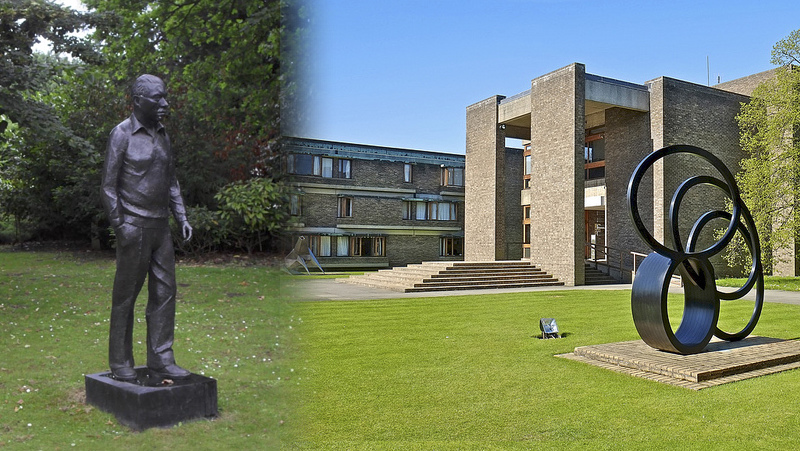
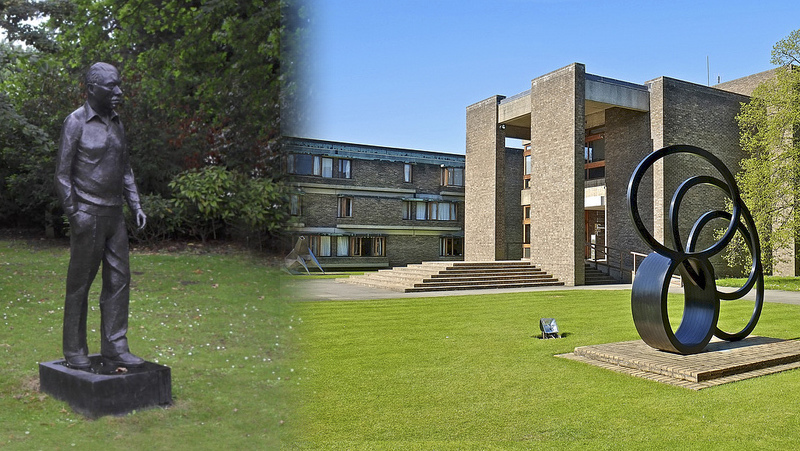
bigger strip and personal pic

Changed region(s): [[0.0, 0.0, 0.3438, 0.9623]]

diff --git a/index.html b/index.html
@@ -30,6 +30,14 @@
 				</div>
 			</section>
 
+			<nav id="nav">
+				<ul>
+					<li><a href="#intro" class="active">Introduction</a></li>
+					<li><a href="#first">First Section</a></li>
+					<li><a href="#second">Second Section</a></li>
+					<li><a href="#cta">Get Started</a></li>
+				</ul>
+			</nav>
 
 
 		<!-- One -->
@@ -40,8 +48,8 @@
 						<header class="major">
 							<h2>Who I am</h2>
 						</header>
-						<p align="justify">An experienced Postdoctoral Researcher at the <a href="http://www.ast.cam.ac.uk/" target="_blank"> <font color="DarkCyan"> Institute of Astronomy</font></a>, University of Cambridge, with a demonstrated history in research. The first person to obtain a Doctor of Philosophy (Ph.D.) in Astronomy and Astrophysics from a Lebanese institution, the <a href="http://www.aub.edu.lb/" target="_blank"> <font color="DarkCyan"> American University of Beirut.</font></a>  Course supervisor and Masters project mentor with a long and broad teaching experience. Recipient of several fellowships, awards and research grants. An enthusiastic team-worker, an excellent communicator and an activist in promoting gender equality and representation by championing supportive policies and practices. Active on various committees for an effective and strategic engagement in postdoc academic and social welfare issues in the <a href="http://www.cam.ac.uk/" target="_blank"> <font color="DarkCyan"> University of Cambridge</font></a>. A professional with a Masters in Physics and a Bacherlors degree in Physics and Mathematics.</p>
-					</div><p align="left"><font color="Silver" size="2" face="futura"> <i>Images: Observatory, IoA (left). AUB (right). <br>Moon &amp Pluto image by Angelique Babson, NRAO</i></font></p>
+						<p align="justify"><img src="images/me.jpg" alt="me" height="30%" width="30%" align=left style="padding-right:20px;">An experienced Postdoctoral Researcher at the <a href="http://www.ast.cam.ac.uk/" target="_blank"> <font color="DarkCyan"> Institute of Astronomy</font></a>, University of Cambridge, with a demonstrated history in research. The first person to obtain a Doctor of Philosophy (Ph.D.) in Astronomy and Astrophysics from a Lebanese institution, the <a href="http://www.aub.edu.lb/" target="_blank"> <font color="DarkCyan"> American University of Beirut.</font></a>  Course supervisor and Masters project mentor with a long and broad teaching experience. Recipient of several fellowships, awards and research grants. An enthusiastic team-worker, an excellent communicator and an activist in promoting gender equality and representation by championing supportive policies and practices. Active on various committees for an effective and strategic engagement in postdoc academic and social welfare issues in the <a href="http://www.cam.ac.uk/" target="_blank"> <font color="DarkCyan"> University of Cambridge</font></a>. A professional with a Masters in Physics and a Bacherlors degree in Physics and Mathematics.</p>
+					</div><p align="left"><font color="Silver" size="2" face="futura"> <i>Images: Observatory, IoA (left). AUB (right). <br>Moon &amp Pluto by Angelique Babson, NRAO (background)</i></font></p>
 					<a href="#two" class="goto-next scrolly">Next</a>
 				</div>
 			</section>
@@ -92,10 +100,8 @@
 						<br>
 <p align="justify"> <b>CNO ABUNDANCES IN RED GIANTS</b><br>
 When stars become red giants, they experience the first envelope mixing event that changes their surface abundances. Since stellar spectra tell us about the chemistry at the surface, we can then compare our model predictions to the observations.
-If we have a good understanding of the mixing process, we gain insight into the stellar interiors and chemistry by studying these abundance changes. Using state-of-the-art input physics, <a href="https://academic.oup.com/mnras/article-lookup/doi/10.1093/mnras/stv1141" target="_blank"> <font color="DarkCyan">we find</font></a> a discrepancy between predicted surface
-oxygen abundances and observations in low mass red giants. The adjacent cartoon figure is a simple depiction of this finding,
-  <span class="image right"><img src="images/O1617.jpg" alt="" /></span>
- where the model predictions are shown as a red line and star symbols are observations. This suggests the need to invoke deeper mixing in the models than the theory predicts (shown as a dashed green line) to reproduce the observed abundance pattern. This is sometimes called extra
+If we have a good understanding of the mixing process, we gain insight into the stellar interiors and chemistry by studying these abundance changes.<span class="image right"><img src="images/O1617.jpg" alt="" /></span> Using state-of-the-art input physics, <a href="https://academic.oup.com/mnras/article-lookup/doi/10.1093/mnras/stv1141" target="_blank"> <font color="DarkCyan">we find</font></a> a discrepancy between predicted surface
+oxygen abundances and observations in low mass red giants. The adjacent cartoon figure is a simple depiction of this finding, where the model predictions are shown as a red line and star symbols are observations. This suggests the need to invoke deeper mixing in the models than the theory predicts (shown as a dashed green line) to reproduce the observed abundance pattern. This is sometimes called extra
 mixing and is parametrised as a diffusive process based on <a href="http://articles.adsabs.harvard.edu/full/1996A%26A...313..497F" target="_blank"> <font color="DarkCyan">2D hydrodynamic simulations</font></a>. However, this raises important questions: how well do we understand mixing? And what physical mechanism drives this
 extra mixing?</p>
 <p align="justify"> <b>TWO-DIMENSIONAL STELLAR EVOLUTION</b><br>
@@ -115,8 +121,8 @@ Being at the frontier of scientific exploration, this project promises a burst o
 existing possibilities for improvement given the advent of computational refinements and the unprecedented
 developments in observational astronomy.</p>
 <p align="justify"> <b>SYNTHESIS OF C-RICH DUST IN NOVAE OUTBURSTS</b><br>
-<a href="https://en.wikipedia.org/wiki/Nova" target="_blank"> <font color="DarkCyan">Classical novae</font></a> are very interesting objects since they are prolific dust producers. Observations of a number of novae
-have unambiguously revealed that their ejecta are rich in carbon. <span class="image right"><img src="images/nova.jpg" alt=""/></span>However, theoretical models of novae
+<span class="image right"><img src="images/nova.jpg" alt=""/></span><a href="https://en.wikipedia.org/wiki/Nova" target="_blank"> <font color="DarkCyan">Classical novae</font></a> are very interesting objects since they are prolific dust producers. Observations of a number of novae
+have unambiguously revealed that their ejecta are rich in carbon. However, theoretical models of novae
 outbursts to date have yielded outflows richer in oxygen than carbon. In a collaboration with <a href="http://www.fen.upc.edu/users/jjose/" target="_blank"> <font color="DarkCyan">Jordi Jos&eacute</font></a> and <a href="https://www.aub.edu.lb/fas/physics/Pages/eid.aspx" target="_blank"> <font color="DarkCyan">Mounib El Eid</font></a>,
 we provided <a href="https://www.aanda.org/articles/aa/abs/2016/09/aa28901-16/aa28901-16.html" target="_blank"> <font color="DarkCyan">state-of-the-art novae models</font></a> which produce carbon-rich ejecta, providing a novel explanation of
 these observations.</p>
@@ -125,7 +131,7 @@ Stars of intermediate mass exhibit a phenomenon called the "blue loop", which ch
 through the <a href="https://en.wikipedia.org/wiki/Instability_strip" target="_blank"> <font color="DarkCyan">Cepheid instability strip</font></a>. Since Cepheids are well-known variable stars that are largely observed
  in the Galaxy, the blue loop presents a powerful phase that can constrain important physical processes. <a href="http://iopscience.iop.org/article/10.1088/0004-637X/761/1/10" target="_blank"> <font color="DarkCyan">We investigated</font></a> the striking
  effect of a revised nuclear reaction rate on the blue loop and showed an impressive
- suppression of the blue loops of intermediate mass stars.<span class="image left"><img src="images/blueloop.png"  alt=""/></span> This is depicted in the adjacent figure which shows the evolutionary tracks of stars of various masses in the HR diagram. Black and blue symbols are observed cepheids. The supression of the blue loop of the 5 and 6M<sub>&#9737</sub> stars undesirably leaves many observed
+ suppression of the blue loops of intermediate mass stars. This is depicted in the adjacent figure which shows the evolutionary tracks of stars of various masses in the HR diagram. <span class="image left"><img src="images/blueloop.png"  alt=""/></span>Black and blue symbols are observed cepheids. The supression of the blue loop of the 5 and 6M<sub>&#9737</sub> stars undesirably leaves many observed
  Cepheids unexplained. Having an experimentally established nuclear reaction rate allows focus to be brought to the
  role of related physical processes that are not yet well-understood, like convection, <a href="http://aip.scitation.org/doi/abs/10.1063/1.4875329" target="_blank"> <font color="DarkCyan">in solving
  this discrepancy</font></a>.</p>
@@ -185,7 +191,7 @@ Mechanics labs at the American University of Beirut and the <a href="http://www.
 									</header>
 									<p align="justify">I have had the pleasure to speak at more than 20 conferences, workshops and seminars. Most were to present my latest research results, some to get a job and others to communicate how fun my research is! Here's a brief selection.</p>
 									<p> <ul>
-											<li><p align="left"><b><a href="http://www.unoosa.org/oosa/en/ourwork/topics/spaceforwomen/2017/expert-meeting.html" target="_blank"> <font color="DimGrey">UN EXPERT MEETING ON SPACE FOR WOMEN, NY</font></a></b> | 2017	<br><b><font size="2" color="DarkRed">Invited talk *COMING UP!*</b></font><br> The Institute of Astronomy commitment towards equality and diversity: policies and measures.</li>
+											<li><p align="left"><b><a href="http://www.unoosa.org/oosa/en/ourwork/topics/spaceforwomen/2017/expert-meeting.html" target="_blank"> <font color="DimGrey">UN EXPERT MEETING ON SPACE FOR WOMEN, NY</font></a></b> | 2017	<br><b><font size="2" color="DarkRed">Invited talk *COMING UP!*</b></font><br> The Institute of Astronomy commitment towards equality and diversity: policies &amp measures.</li>
 											<li><p align="left"><b><a href="https://nam2017.org/" target="_blank"> <font color="DimGrey">NATIONAL ASTRONOMY MEETING, UK</font></a></b> | 2017	<br><b><font size="2" color="DarkRed">Invited talk</b></font><br> Can the Chemical Evolution of the Galaxy Solve the Mystery of Oxygen in Red Giants?<a href="Documents/NAM2017.pdf" target="_blank"> <font color="DarkRed"> <i class="fa fa-file-powerpoint-o"></i></font></a></p></li>
 											<li><p align="left"><b><a href="http://agb-supernovae.weebly.com/" target="_blank"> <font color="DimGrey">AGB-SN MASS TRANSITION, ROME</font></a></b> | 2017 <br>Two-Dimensional Stellar Evolution: 2DStars<a href="Documents/AGB-SAGB_Halabi_Rome_2017.pdf" target="_blank"> <font color="DarkRed"> <i class="fa fa-file-powerpoint-o"></i></font></a></p></li>
 											<li><p align="left"><b><a href="http://www.ast.cam.ac.uk/meetings/2016/binary.stars.cambridge.2016" target="_blank"> <font color="DimGrey">BINARY STARS IN CAMBRIDGE, UK</font></a></b> | 2016 <br>Two-Dimensional Stellar Evolution with 2DStars: Introduction &amp Applications
@@ -343,7 +349,7 @@ Mechanics labs at the American University of Beirut and the <a href="http://www.
 									<!-- Eleven -->
 										<section id="eleven" class="main special">
 											<div class="container">
-												<span class="image fit primary"><img src="images/awar.jpg" alt="" /></span>
+												<span class="image fit primary"><img src="images/award.jpg" alt="" /></span>
 												<div class="content">
 													<header class="major">
 														<h2>Awards &amp research grants</h2>
@@ -737,7 +743,7 @@ print 'It took ' + i + ' iterations to sort the deck.';</code></pre>
 						<li><a href="mailto:ghina.m.halabi [at] gmail.com"  rel="nofollow" onclick="this.href='mailto:'+'ghina.m.halabi'+'@'+'gmail.com'" class="icon alt fa-envelope"><span class="label">Email</span></a></li>
 					</ul>
 					<ul class="copyright">
-						<li>&copy; ghina halabi</li><li>Image credits: Moon&ampPluto by <a href="https://society6.com/adrazte" target="_blank"> Angelique Babson</a>, NRAO. Nova by David A. Hardy. Wolfson College by <a href="https://www.meet-cambridge.com/" target="_blank"> Meet Cambridge</a></li>
+						<li>&copy; ghina halabi</li><li>Image credits: Moon&ampPluto by <a href="https://society6.com/adrazte" target="_blank"> Angelique Babson</a>, NRAO. Nova by &copy; David A. Hardy/<a href="http://www.astroart.org/" target="_blank">www.astroart.org</a>. Wolfson College by <a href="https://www.meet-cambridge.com/" target="_blank"> Meet Cambridge</a></li>
 					</ul>
 				</footer>
 			</section>

diff --git a/assets/css/main.css b/assets/css/main.css
@@ -111,7 +111,7 @@
 		}
 
 		.container {
-			width: 35em;
+			width: 50em;
 		}
 
 	}
@@ -2203,7 +2203,7 @@
 		}
 
 		.image.left, .image.right {
-			max-width: 60%;
+			max-width: 40%;
 		}
 
 			.image.left img, .image.right img {
@@ -2680,6 +2680,129 @@
 			.main .goto-next:hover {
 				background-color: rgba(144, 144, 144, 0.15);
 			}
+
+			/* Nav */
+
+				#nav {
+					-moz-transition: background-color 0.2s ease, border-top-left-radius 0.2s ease, border-top-right-radius 0.2s ease, padding 0.2s ease;
+					-webkit-transition: background-color 0.2s ease, border-top-left-radius 0.2s ease, border-top-right-radius 0.2s ease, padding 0.2s ease;
+					-ms-transition: background-color 0.2s ease, border-top-left-radius 0.2s ease, border-top-right-radius 0.2s ease, padding 0.2s ease;
+					transition: background-color 0.2s ease, border-top-left-radius 0.2s ease, border-top-right-radius 0.2s ease, padding 0.2s ease;
+					background-color: #ffffff;
+					color: #636363;
+					position: absolute;
+					width: 64em;
+					max-width: calc(100% - 4em);
+					padding: 1em;
+					background-color: #f7f7f7;
+					border-top-left-radius: 0.25em;
+					border-top-right-radius: 0.25em;
+					cursor: default;
+					text-align: center;
+				}
+
+					#nav input, #nav select, #nav textarea {
+						color: #636363;
+					}
+
+					#nav a:hover {
+						color: #636363;
+					}
+
+					#nav strong, #nav b {
+						color: #636363;
+					}
+
+					#nav h1, #nav h2, #nav h3, #nav h4, #nav h5, #nav h6 {
+						color: #636363;
+					}
+
+					#nav blockquote {
+						border-left-color: #dddddd;
+					}
+
+					#nav code {
+						background: rgba(222, 222, 222, 0.25);
+						border-color: #dddddd;
+					}
+
+					#nav hr {
+						border-bottom-color: #dddddd;
+					}
+
+					#nav + #main {
+						padding-top: 4.25em;
+					}
+
+					#nav ul {
+						margin: 0;
+						padding: 0;
+						list-style: none;
+					}
+
+						#nav ul li {
+							-moz-transition: margin 0.2s ease;
+							-webkit-transition: margin 0.2s ease;
+							-ms-transition: margin 0.2s ease;
+							transition: margin 0.2s ease;
+							display: inline-block;
+							margin: 0 0.35em;
+							padding: 0;
+							vertical-align: middle;
+						}
+
+							#nav ul li a {
+								-moz-transition: font-size 0.2s ease;
+								-webkit-transition: font-size 0.2s ease;
+								-ms-transition: font-size 0.2s ease;
+								transition: font-size 0.2s ease;
+								display: inline-block;
+								height: 2.25em;
+								line-height: 2.25em;
+								padding: 0 1.25em;
+								border: 0;
+								border-radius: 8px;
+								box-shadow: inset 0 0 0 1px transparent;
+							}
+
+								#nav ul li a:hover {
+									background-color: rgba(222, 222, 222, 0.25);
+								}
+
+								#nav ul li a.active {
+									background-color: #ffffff;
+									box-shadow: none;
+								}
+
+					#nav.alt {
+						position: fixed;
+						top: 0;
+						padding: 0.5em 1em;
+						background-color: rgba(247, 247, 247, 0.95);
+						border-top-left-radius: 0;
+						border-top-right-radius: 0;
+						z-index: 10000;
+					}
+
+						#nav.alt ul li {
+							margin: 0 0.175em;
+						}
+
+							#nav.alt ul li a {
+								font-size: 0.9em;
+							}
+
+					@media screen and (max-width: 736px) {
+
+						#nav {
+							display: none;
+						}
+
+							#nav + #main {
+								padding-top: 0;
+							}
+
+					}
 
 /* Header */
 
